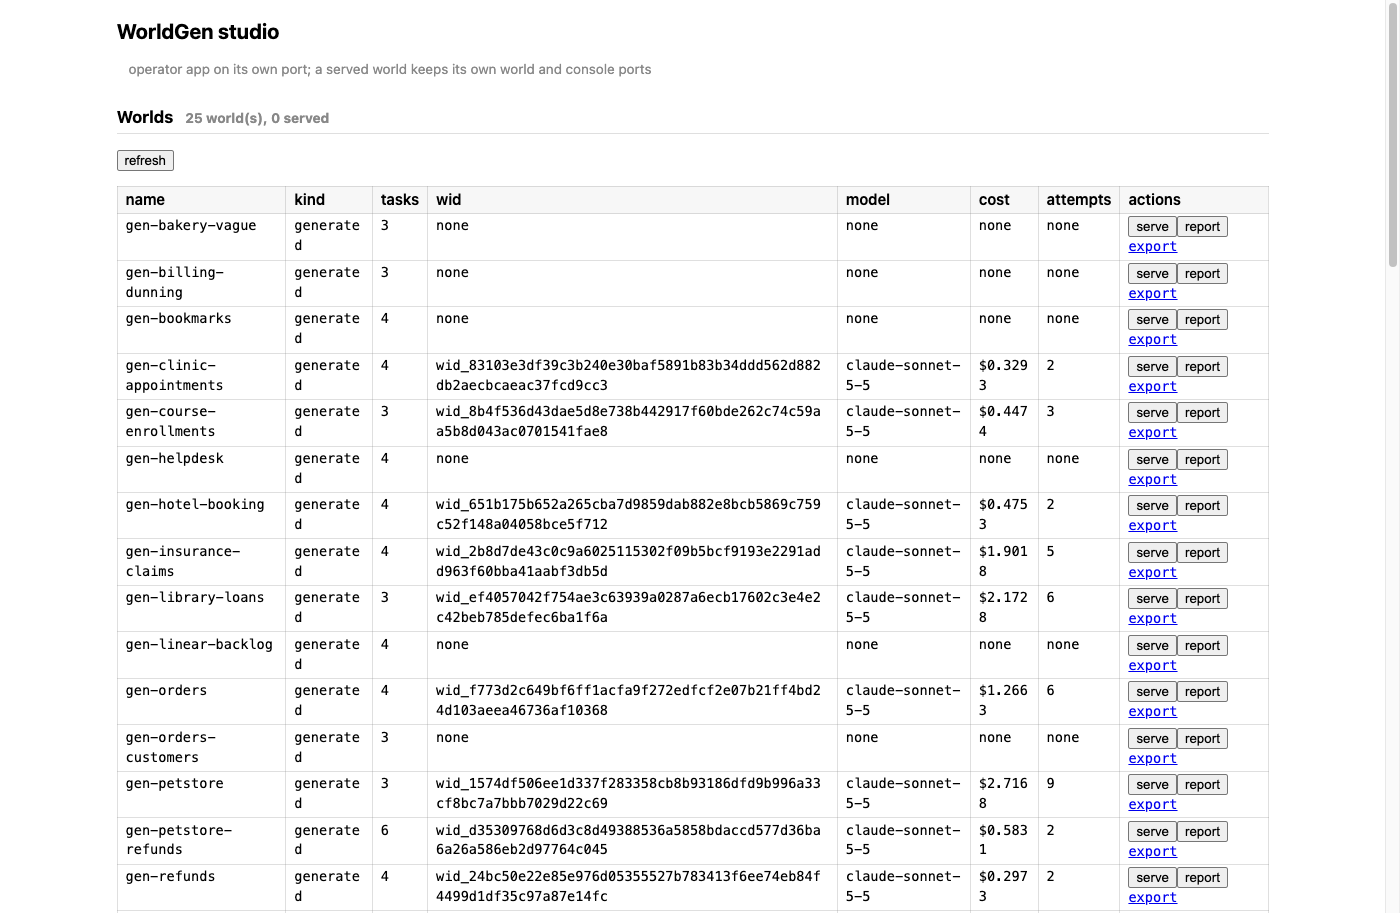
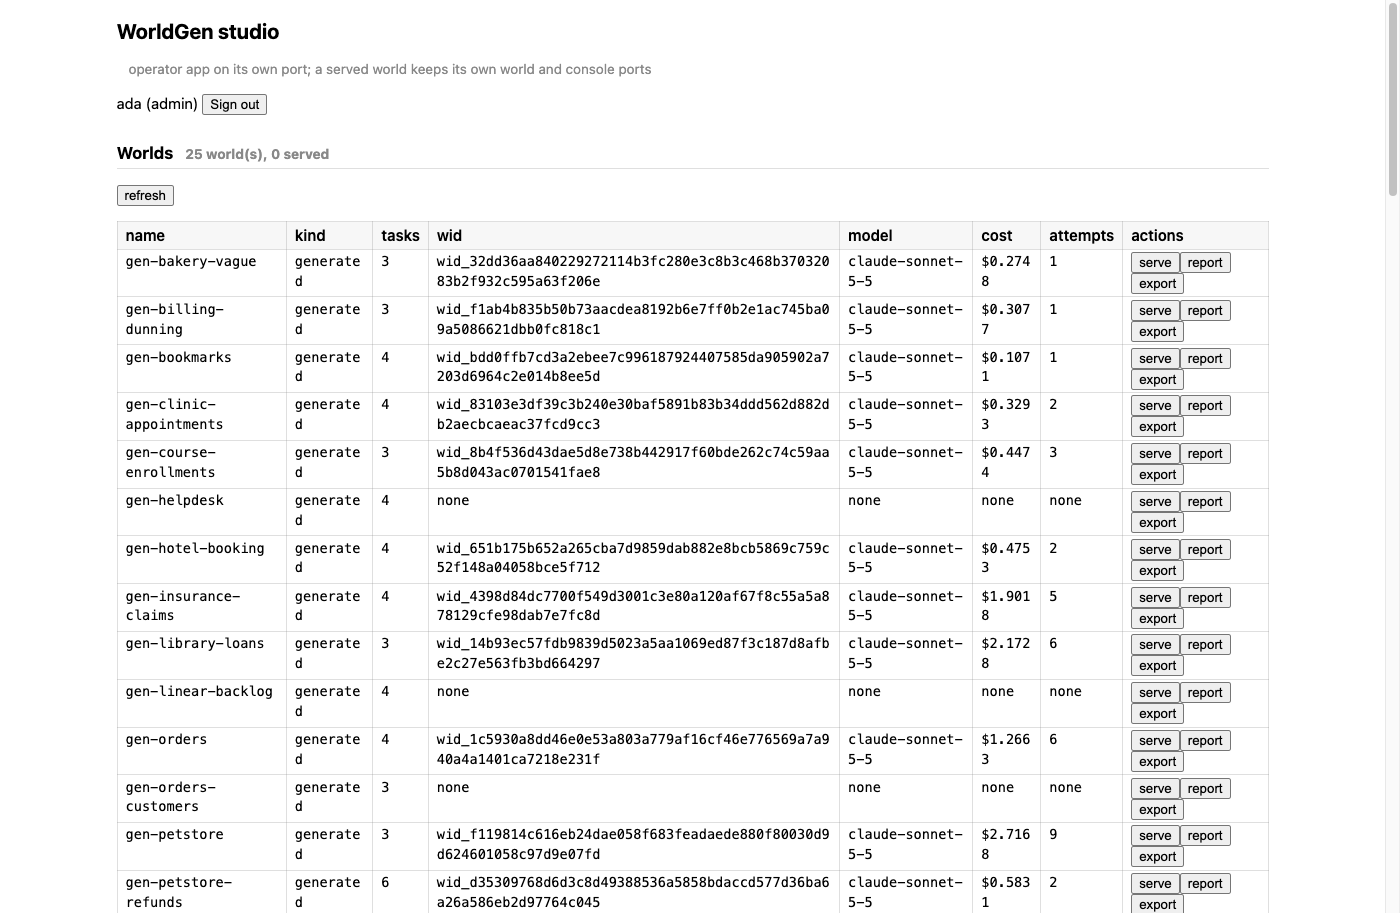
docs(studio): the signed-in runbook, and re-captured dashboard and episode
The runbook makes the users file (an admin and two operator tenants, tokens
in mode-600 files), starts the studio with --users, signs in on the page,
and ends on a second tenant's empty Episodes list. It drops the loopback
no-sign-in gap, the 8.5 s report pause, and the noop label gap, which are
no longer true, and names the operator's 403 on Spend as a known gap.

01 now shows the sign-in bar and the back-filled capsules; 11 shows the
noop episode under noop (no model). The other four captures did not change.

Part of YOS-193.

Changed region(s): [[0.0614, 0.092, 0.8907, 1.0], [0.9829, 0.2147, 1.0, 0.3067]]

diff --git a/research/studio-demo-runbook.md b/research/studio-demo-runbook.md
@@ -1,16 +1,25 @@
 # Studio demo runbook
 
-How to show WorldGen Studio in a browser in 15 minutes, on one seeded repository, with no terminal after setup. This is the YOS-193 click path. The offline terminal demo stays in [demo-runbook.md](demo-runbook.md) and is the fallback for every step here.
+How to show WorldGen Studio in a browser in 15 minutes, on one seeded repository, signed in, with no terminal after setup. This is the YOS-193 click path. The offline terminal demo stays in [demo-runbook.md](demo-runbook.md) and is the fallback for every step here.
 
-`code/scripts/studio-rehearse.ts` drives the same path in headless Chrome and prints one line per step. It ran clean on jop8281/worldgen `1420f8e6`: 14 of 14 steps `ok`, 0 page errors, including the engine proof and the noop episode.
+`code/scripts/studio-rehearse.ts` drives the same path in headless Chrome and prints one line per step. It starts its own signed-in studio and signs in through the page's token field. It ran clean 3 times in a row on jop8281/worldgen `96e9fa3f`: 17 of 17 steps `ok`, 0 page errors each time. That covers the sign-in, the engine proof, the noop episode, a retried request, and a second tenant's view.
 
 ## Setup (terminal, before the talk)
 
 1. Check out the release sha, then run `cd code && bun install --frozen-lockfile`.
-2. Start the studio with `bun run studio`. It prints `studio on http://127.0.0.1:8787`. Or use the container with `scripts/studio-deploy.sh up`. The container binds 0.0.0.0, so it needs sign-in: export `WORLDGEN_STUDIO_TOKEN`, or put it in `STUDIO_ENV_FILE`, an env file outside the repository. `up` refuses to start without it.
-3. Check readiness: `curl -s 127.0.0.1:8787/api/health` shows the sha you checked out, `bun 1.4.2`, and the world count (25 today).
-4. Rehearse once: `bun scripts/studio-rehearse.ts`. Every line should read `ok`, then `page errors total: 0`. It serves and stops helpdesk, so it leaves nothing running. It also runs one free noop episode into `eval/episodes/`, which git ignores.
-5. Open http://127.0.0.1:8787 in the browser. `bun run studio` on loopback needs no sign-in. The container asks for the studio token in the page's sign-in field. Sign-in (YOS-187) is required whenever the studio binds anything but loopback.
+2. Make the users file once, outside the repository. It holds three people, one token each: `ada`, an admin of tenant `ops`, and two operators, `ana` of `acme` and `bob` of `globex`. The studio keeps only each token's sha256. The tokens stay in mode-600 files, so you never type one into the terminal:
+
+   ```sh
+   umask 077 && mkdir -p ~/.worldgen/studio && cd ~/.worldgen/studio
+   for who in ada ana bob; do openssl rand -hex 24 | tr -d '\n' > $who.token; done
+   h() { shasum -a 256 < $1.token | cut -d' ' -f1; }
+   printf '{"users":[{"name":"ada","role":"admin","tenant":"ops","token_sha256":"%s"},{"name":"ana","role":"operator","tenant":"acme","token_sha256":"%s"},{"name":"bob","role":"operator","tenant":"globex","token_sha256":"%s"}]}\n' $(h ada) $(h ana) $(h bob) > users.json
+   ```
+
+3. Start the studio from `code/` with `bun run studio --users ~/.worldgen/studio/users.json`. It prints `studio on http://127.0.0.1:8787`. Without `--users`, a loopback studio runs with sign-in off, and the talk would show no sign-in. The container, `scripts/studio-deploy.sh up`, binds 0.0.0.0 and signs in one admin: export `WORLDGEN_STUDIO_TOKEN`, or put it in `STUDIO_ENV_FILE`, an env file outside the repository. `up` refuses to start without it. It has no second tenant, so skip step 13 there.
+4. Check readiness: `curl -s 127.0.0.1:8787/api/health` shows the sha you checked out, `bun 1.4.2`, and the world count (25 today). Health needs no token.
+5. Rehearse once: `bun scripts/studio-rehearse.ts`. It starts its own studio on a free loopback port, from a scratch users file with its own random tokens, so it never sees yours. Every line should read `ok`, then `page errors total: 0`. It serves and stops helpdesk, so it leaves nothing running. It also runs two free noop episodes into `eval/episodes/`, which git ignores. Its tenants have the same names as yours, so ada sees both episodes during the talk and ana sees hers.
+6. Open http://127.0.0.1:8787 in the browser. The page says `not signed in`, shows the `studio token` field, and reads `HTTP 401 auth.required`. To put a token on the clipboard, run `pbcopy < ~/.worldgen/studio/ada.token`.
 
 ## Click path
 
@@ -18,18 +27,22 @@ Times are the rehearsal's measured page times. The minutes are talk time. Each s
 
 | Min | Step | Click | What the audience sees | Measured |
 |---|---|---|---|---|
-| 0 to 1 | 1. Dashboard (`01-dashboard`) | Load the page | Worlds table: 25 worlds, each with kind (hand-built or generated), task count, wid, model, cost and attempts. Generated worlds show the Sonnet run's dollar cost. | 0.2 s |
-| 1 to 2 | 2. Serve (`02-serve-helpdesk`) | `serve` on the **helpdesk** row | The row turns to `stop`, `world` and `api console`, and the header says `1 served`. The world runs on its own port with its admin port kept private. | 0.15 s |
-| 2 to 4 | 3. Explorer (`03-explorer-helpdesk`) | World `helpdesk`, then `explore` | The definition wid and clock, 7 entities with fields and references, 17 routes and actions, 3 jobs, and 3 tasks with difficulty and tid. No grader source is shown. | 1.8 s |
+| 0 to 1 | 0. Sign in (`00-sign-in`) | Paste ada's token into `studio token`, then `Sign in` | The page reloads, and the bar reads `ada (admin)` with `Sign out`. The token stays in this tab's sessionStorage, never in a cookie. | 0.2 s |
+| 0 to 1 | 1. Dashboard (`01-dashboard`) | None, it loads on sign-in | Worlds table: 25 worlds, each with kind (hand-built or generated), task count, wid, model, cost and attempts. Generated worlds show the Sonnet run's dollar cost. | 0.2 s |
+| 1 to 2 | 2. Serve (`02-serve-helpdesk`) | `serve` on the **helpdesk** row | The row turns to `stop`, `world` and `api console`, and the header says `1 served`. The world runs on its own port with its admin port kept private. | 1.7 to 2.7 s |
+| 2 to 4 | 3. Explorer (`03-explorer-helpdesk`) | World `helpdesk`, then `explore` | The definition wid and clock, 7 entities with fields and references, 17 routes and actions, 3 jobs, and 3 tasks with difficulty and tid. No grader source is shown. | 1.4 to 2.3 s |
 | 4 to 5 | 4. API call (`04-console-get`) | Console `GET /tickets?status=open&limit=3`, then `send` | The world's real HTTP 200 with three `tkt_` rows. The console only ever reaches the world port. | 0.15 s |
 | 5 to 6 | 5. A wrong write (`05-console-illegal-write`) | Console `PATCH /tickets/tkt_0001` with body `{"status":"new","priority":"low"}`, then `send` | HTTP 422 `state.transition`, "ticket tkt_0001 status cannot move from open to new". The legal half (priority) was not applied either. | 0.15 s |
-| 6 to 7 | 6. A generated world (`06-explorer-generated`) | World `gen-library-loans`, then `explore` | A world WorldGen built from two CSV files: books, members and loans, with its routes, jobs and tasks. | instant |
-| 7 to 9 | 7. Its report (`07-report`) | `report` on the **gen-library-loans** row | REPORT.md: what was built, what was assumed and why, what was left out, plus the run's cost and minutes. | **8.5 s**, the one visible pause, so talk over it |
-| 9 to 10 | 8. Eval (`09-eval`) | Scroll to Eval | Seven rehearsal runs with their pass rates (live-segment 2/3, stress-1b 7/14). `view` opens a summary. | instant |
-| 10 to 11 | 9. Engine proof (`10-proof`) | Agent Playground: world `helpdesk`, then `engine proof` | "engine proof: every task verified". For each of the 3 tasks, the reference solution scores 1 and doing nothing scores 0. The near miss and the decoys score below 1, and the replay is identical. | 1.2 to 1.5 s |
-| 11 to 13 | 10. A noop episode (`11-noop-episode`) | Agent `noop`, then `run episode` | One episode on `assign_newest_acme_ticket`. The free noop agent replies "No action taken.", and the engine scores the end state 0 at $0.0000. The seed and end state hashes match, because nothing changed. The engine grades the end state, not the reply. The episode records no model, and Analytics files it under `noop (no model)`. | 4.1 s |
-| 13 to 14 | 11. Spend (`12-spend`) | `refresh` under Spend | Today's LLM and sandbox spend, by day, and the caps (each says when it is unset). | instant |
-| 14 to 15 | 12. Clean up (`13-stop-helpdesk`, `14-reload`) | `stop` on helpdesk, then reload the page | The served count returns to 0, and the reload shows the same state. | 0.2 s |
+| 6 to 7 | 6. A generated world (`06-explorer-generated`) | World `gen-library-loans`, then `explore` | A world WorldGen built from two CSV files: books, members and loans, with its routes, jobs and tasks. | **5.5 to 6.7 s**, the one visible pause, so talk over it |
+| 7 to 9 | 7. Its report (`07-report`) | `report` on the **gen-library-loans** row | REPORT.md: what was built, what was assumed and why, what was left out, plus the run's cost and minutes. | 0.15 s |
+| 9 to 10 | 8. Eval (`09-eval`) | Scroll to Eval | 13 eval runs with their pass rates (live-segment 2/3, stress-1b 7/14). `view` opens a summary. | instant |
+| 10 to 11 | 9. Engine proof (`10-proof`) | Agent Playground: world `helpdesk`, then `engine proof` | "engine proof: every task verified". For each of the 3 tasks, the reference solution scores 1 and doing nothing scores 0. The near miss and the decoys score below 1, and the replay is identical. | 1.4 to 1.7 s |
+| 11 to 12 | 10. A noop episode (`11-noop-episode`) | Agent `noop`, then `run episode` | One episode on `assign_newest_acme_ticket`. The free noop agent replies "No action taken.", and the engine scores the end state 0 at $0.0000. The seed and end state hashes match, because nothing changed. The engine grades the end state, not the reply. The episode records no model, and Analytics files it under `noop (no model)`. | 6.1 s |
+| 12 to 13 | 11. Spend (`12-spend`) | `refresh` under Spend | Today's LLM and sandbox spend, by day, and the caps (each says when it is unset). Spend needs the admin role. | instant |
+| 13 to 14 | 12. Clean up (`13-stop-helpdesk`, `14-reload`) | `stop` on helpdesk, then reload the page | The served count returns to 0, and the reload shows the same state, still signed in. | 0.3 s |
+| 14 to 15 | 13. Another tenant (`16-other-tenant`) | `Sign out`, then paste bob's token and `Sign in` | The bar reads `bob (operator)`. His Episodes list reads `0 episode run(s)`: ada's run and the rehearsal's acme run are absent, because each tenant sees only its own jobs. The worlds stay shared. | instant |
+
+The rehearsal also checks one thing the talk does not click, as step `15-idempotent-retry`. Signed in as ana, it posts the same noop episode request twice with one `Idempotency-Key`. Both answers carry the same run id, and the second says `replayed: true`, so the studio started one episode. Generation runs share that code path, but a generation calls Sonnet, so the rehearsal retries the free episode instead. Measured 5.9 to 6.8 s, most of it the episode itself.
 
 ## Fresh generation (optional, labeled live)
 
@@ -44,6 +57,6 @@ Generation runs → kind `description`, a one-line prompt, out slug, budget `3`,
 
 ## Known gaps
 
-- The click path runs on loopback, so it shows no sign-in step. Off loopback, sign-in (YOS-187) is required, and the talk would start at the token field.
-- Opening a big world's report takes about 8.5 s.
-- Generation, cancellation and export were not rehearsed live: no model calls in this pass.
+- Signed in as an operator, the page shows `HTTP 403 auth.forbidden: GET /api/costs needs the admin role`, because the Spend panel loads for everyone. In step 13 it sits under bob's name, so say so when he signs in.
+- Opening a big generated world in the Explorer takes about 6 s.
+- Generation and cancellation were not rehearsed live: no model calls in this pass.

diff --git a/prod/screenshots/README.md b/prod/screenshots/README.md
@@ -4,41 +4,42 @@ Six screenshots of WorldGen Studio, the operator web app that `bun run studio` s
 
 ## How they were taken
 
-| | |
-|---|---|
-| Code | `stabilize/main` at `b2b980f9` in jop8281/worldgen. Only `code/scripts/studio-rehearse.ts` differed, by the change that added these steps and `--viewport`. No Studio or engine file differed. |
-| Captured | 2026-10-08 00:50 UTC |
-| Runtime | Bun 1.4.2 on macOS 26.6, headless Google Chrome 154.0.8037.98 |
-| Viewport | 1400 × 913 CSS pixels at device scale 1, inside a 1400 × 1000 headless window |
-| Rehearsal | 14 of 14 steps `ok`, 0 page errors |
+Two captures are from the signed-in studio. The other four are from an earlier pass, which drove a studio on loopback with no sign-in. The sign-in bar sits above each of their viewports, so a fresh capture of those four shows no visible change and they were kept.
+
+| | 01 and 11 | 04, 05, 07 and 10 |
+|---|---|---|
+| Code | `dispatch/yos193-signed-in-rehearsal` at `2c36e0da` in jop8281/worldgen. That is `stabilize/main` `f68953cb` plus this change to `code/scripts/studio-rehearse.ts`. No Studio or engine file differed. | `stabilize/main` at `b2b980f9`. Only `code/scripts/studio-rehearse.ts` differed, by the change that added these steps and `--viewport`. |
+| Captured | 2026-10-08 04:39 UTC | 2026-10-08 00:50 UTC |
+| Studio | Signed in as `ada`, an admin, from a scratch users file that the rehearsal writes. | Loopback, no sign-in. |
+| Rehearsal | 17 of 17 steps `ok`, 0 page errors, in 3 runs in a row | 14 of 14 steps `ok`, 0 page errors |
+
+Both passes ran Bun 1.4.2 on macOS 26.6 and headless Google Chrome 154.0.8037.98. The viewport was 1400 × 913 CSS pixels at device scale 1, inside a 1400 × 1000 headless window. The signed-in pass pins the light color scheme, so a capture does not follow the machine's appearance.
 
 From `code/`:
 
 ```sh
-bun run studio --port 8797
-bun scripts/studio-rehearse.ts http://127.0.0.1:8797 <out-dir> --viewport
+bun scripts/studio-rehearse.ts <out-dir> --viewport
 ```
 
-The rehearsal writes one PNG per step into `<out-dir>`. These six keep their step names. The rehearsal serves and stops helpdesk, and it leaves one noop episode under `eval/episodes/`.
+The rehearsal starts its own studio on a free loopback port, from a users file with an admin and two operator tenants, and signs in through the page. It writes one PNG per step into `<out-dir>`. These six keep their step names. It serves and stops helpdesk, and it leaves two noop episodes under `eval/episodes/`: one for the admin, and one for the tenant that retries a request. Clear `eval/episodes/` and `prod/worlds/.studio-runs.json` first, so 11 lists one episode. Both are ignored by git.
 
 ## The screenshots
 
 | File | What it shows | sha256 |
 |---|---|---|
[8 lines of base64/hex data omitted]
 
 The worlds shown:
 
 - helpdesk is `wid_e833c3b8d51fabafb42aff407ec68e6ce7a060289162ee6bef9e3ead755bb521`, the hand-built world.
-- gen-library-loans is `wid_14b93ec57fdb9839d5023a5aa1069ed87f3c187d8afbe2c27e563fb3bd664297`, as the Explorer in 07 shows. Its `REPORT.md` and `capsule.json` have cited this id since PR #13. The dashboard in 01 was captured before PR #13, and it shows `wid_ef4057042f754ae3c63939a0287a6ecb17602c3e4e2c42beb785defec6ba1f6a`, the id the report cited then. The `world.yaml` never changed. A schema default added after generation, `alternatives: []` on every task, moved the id of the parsed world. PR #13 records the bisect.
+- gen-library-loans is `wid_14b93ec57fdb9839d5023a5aa1069ed87f3c187d8afbe2c27e563fb3bd664297` in both 01 and 07. Its `REPORT.md` and `capsule.json` have cited this id since PR #13.
 
 ## What to read with care
 
-- In 01, a generated world without a `capsule.json` shows `none` for wid, model, cost and attempts, because the dashboard reads those values from that file. 13 of the 23 generated worlds have none.
-- In 11, the noop episode's `agent model` reads `claude-sonnet-5-5`, and Analytics counts it under that model. The noop agent called no model. This label is a known gap.
+- In 01, a generated world without a `capsule.json` shows `none` for wid, model, cost and attempts, because the dashboard reads those values from that file. 9 of the 23 generated worlds have none.
 - In 10 and 11, the Spend panel shows the spend ledger of the machine that took the screenshots, at that moment. It is not a measured result of this repository.

diff --git a/README.md b/README.md
@@ -69,13 +69,13 @@ The 7 misses have three root causes, each explained in the summary.
 
 ## Studio screenshots
 
-Taken from the real app on `b2b980f9`, with no model call. [prod/screenshots/README.md](prod/screenshots/README.md) gives the command, viewport, runtime and digest of each one.
+Taken from the real app with no model call: the dashboard and the episode on `2c36e0da`, signed in as an admin, and the other four on `b2b980f9`. [prod/screenshots/README.md](prod/screenshots/README.md) gives the command, viewport, runtime and digest of each one.
 
 | | |
 |---|---|
-| ![The Worlds dashboard](prod/screenshots/01-dashboard.png) The Worlds table lists 25 worlds with kind, tasks, wid, model and cost. | ![An API call on the world port](prod/screenshots/04-console-get.png) A real GET on helpdesk's world port, answered 200. |
+| ![The Worlds dashboard](prod/screenshots/01-dashboard.png) Signed in as `ada (admin)`, the Worlds table lists 25 worlds with kind, tasks, wid, model and cost. | ![An API call on the world port](prod/screenshots/04-console-get.png) A real GET on helpdesk's world port, answered 200. |
 | ![A refused write](prod/screenshots/05-console-illegal-write.png) An illegal status move, refused whole with 422 `state.transition`. | ![A generated world's report](prod/screenshots/07-report.png) `REPORT.md` of gen-library-loans, built from two CSV files. |
-| ![The engine proof](prod/screenshots/10-proof.png) The engine proof scores each reference 1, doing nothing 0, and decoys below 1. | ![A noop agent episode](prod/screenshots/11-noop-episode.png) A free noop agent episode, scored 0 from its end state. |
+| ![The engine proof](prod/screenshots/10-proof.png) The engine proof scores each reference 1, doing nothing 0, and decoys below 1. | ![A noop agent episode](prod/screenshots/11-noop-episode.png) A free noop agent episode, scored 0 from its end state and filed under `noop (no model)`. |
 
 ## More
 
